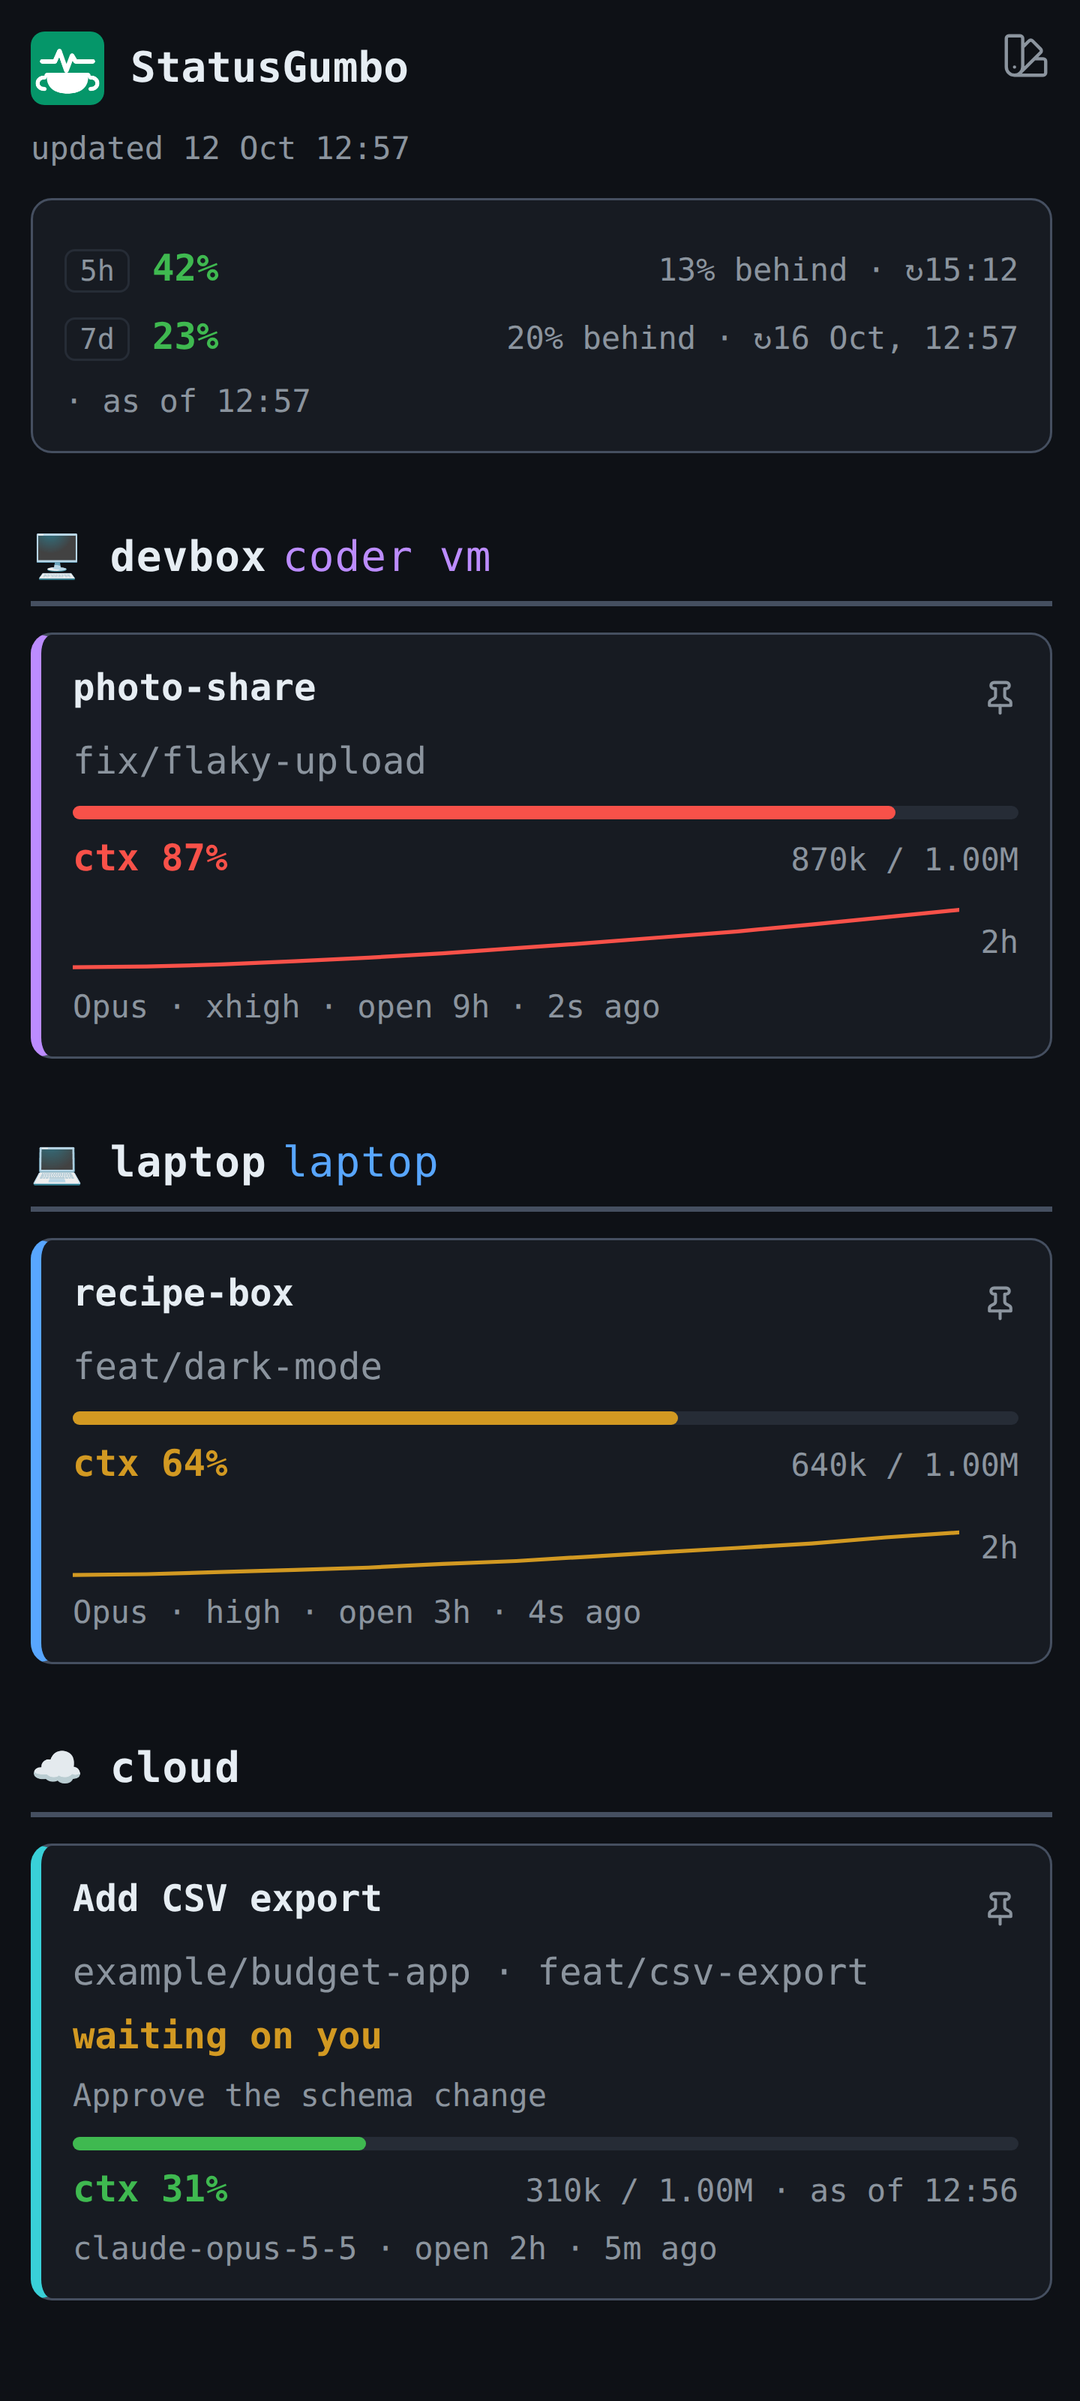
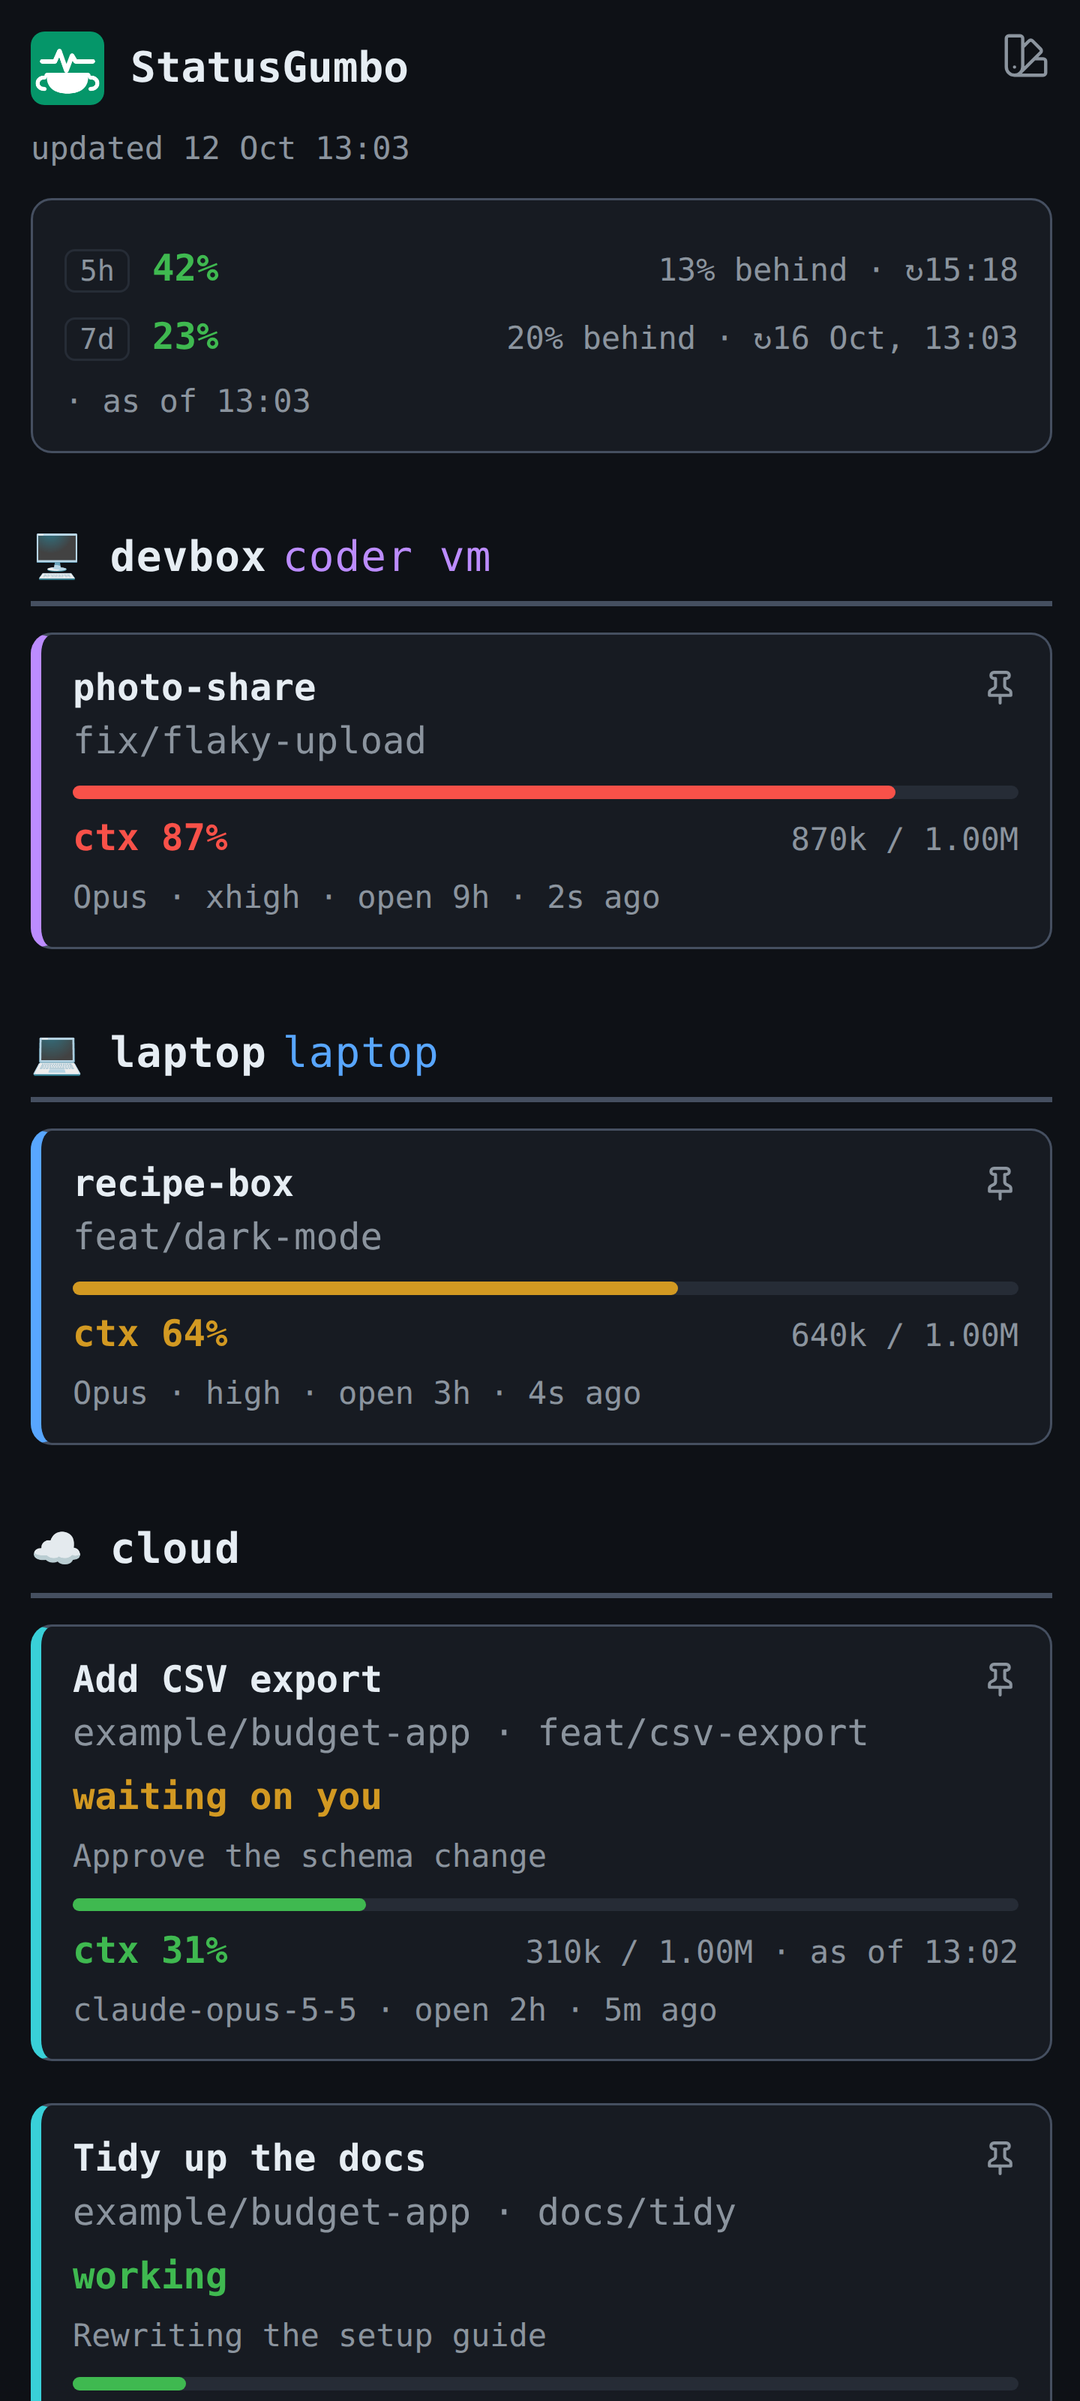
feat: the cards draw no context sparkline
At the user's request: it said little the percentage did not, and the
cards are a third shorter without it, so a phone shows more of them.
The svg height rule went with it (only the sparkline needed it), which
also stops the pin icon padding the title row. The collector still
serves history. The README screenshot is retaken.

diff --git a/collector/index.html b/collector/index.html
@@ -143,22 +143,6 @@
   .pct { font-weight: 700; }
   .green { color: var(--green); } .yellow { color: var(--yellow); } .red { color: var(--red); }
   .alert { border-color: var(--red); color: var(--red); }
-  /* height is not decoration here, it is the missing half of a dimension.
-     The sparkline is emitted as width="100%" over a `0 0 240 28` viewBox with
-     preserveAspectRatio="none" and no height, so the browser fell back to the
-     viewBox's 240:28 ratio and scaled the height with the *viewport width* —
-     28px at the 240px it was drawn for, ~45px on a phone, ~180px on a laptop,
-     where it opened a void inside the card taller than the card's own
-     content. Pinning it to the viewBox's own height makes the vertical scale
-     1:1 and the card the same height on every screen; the horizontal stretch
-     is what preserveAspectRatio="none" is there for and is left alone. */
-  svg { display: block; height: 28px; }
-  /* The line and how much time it covers, on one row. min-width:0 is what
-     lets the svg actually shrink: a flex item's floor is its content size,
-     not zero, so without it the caption would be pushed off the card on a
-     narrow screen rather than the line giving up the width. */
-  .spark { display: flex; align-items: center; gap: 8px; margin-top: 6px; }
-  .spark > svg { flex: 1; min-width: 0; }
   .empty { color: var(--dim); text-align: center; padding: 24px 0; }
   /* A card that opens on claude.ai is a link, and must still look like a
      card rather than like link text. */
@@ -353,9 +337,9 @@ function toneColor(pct) {
 }
 
 // A length of time with no opinion about what it measures. Shared by `age`,
-// which is a time since, and by the sparkline's caption, which is a time
-// across — the same formatting problem, and formatting them differently
-// would be a difference the reader has to account for and cannot.
+// which is a time since, and by `opened`, which is a time across — the same
+// formatting problem, and formatting them differently would be a difference
+// the reader has to account for and cannot.
 function duration(secs) {
   if (num(secs) === null) return '';
   secs = Math.max(0, Math.round(secs));
@@ -439,80 +423,6 @@ function paceText(pace) {
   return 'on pace';
 }
 
-// The x-axis is the sample index, and the line is stretched to the card's
-// full width whatever the count — so two samples twenty seconds apart draw
-// exactly the same edge-to-edge line as a full thirty-minute ring. Nothing
-// in the picture distinguishes them, which is why one is withheld and the
-// other is captioned rather than left to be guessed at.
-//
-// Below this the line is not thin evidence, it is a shape with no trend in
-// it: at one sample per HISTORY_MIN_INTERVAL_SECS, two minutes is a dozen
-// readings, and fewer than that says only what the percentage above it
-// already says. The same judgement the budget card makes about a stale
-// figure — withhold rather than present something that cannot support the
-// reading it invites.
-const SPARKLINE_MIN_SPAN_SECS = 120;
-
-// The samples a line may be drawn from, or null if it may not be drawn.
-//
-// store.py declines to append a sample whose ctx_pct is null, so that half of
-// this filter is partly belt-and-braces. It is here because the coupling is
-// invisible from this file: an unguarded null or NaN plots at y = h, drawing
-// a confident 0% the collector never claimed. Number.isFinite rather than a
-// typeof test, because typeof NaN is 'number'. `t` is checked on the same
-// grounds — it is now arithmetic'd for the span, and a non-numeric one would
-// caption the line with a length that is not a length.
-function plottable(history) {
-  const samples = (history || []).filter(
-    sample => sample
-      && Number.isFinite(sample.ctx_pct)
-      && Number.isFinite(sample.t));
-  if (samples.length < 2) return null;
-  const span = samples[samples.length - 1].t - samples[0].t;
-  // `>=` written on the true branch: a NaN span fails every comparison, so
-  // asking `span < MIN` would have let it through to be captioned "NaNm".
-  if (!(span >= SPARKLINE_MIN_SPAN_SECS)) return null;
-
-  // A window in which the reading never changed is a horizontal line, and a
-  // horizontal line drawn edge to edge in the tone colour reads as a trend
-  // when it is the absence of one — it says exactly what the percentage
-  // above it already said, in a form that looks like it says more. Observed:
-  // two sessions holding 10% and 14% without moving for three quarters of an
-  // hour, both drawing a confident full-width stroke.
-  //
-  // So the line's presence is itself the signal. It appears when context is
-  // moving, which is the only time its shape carries anything the number
-  // does not. min/max by loop rather than Math.min(...values): the ring holds
-  // HISTORY_SLOTS samples and spreading an array of that size into arguments
-  // is a habit that breaks quietly once the ring is grown.
-  let lo = samples[0].ctx_pct, hi = lo;
-  for (const sample of samples) {
-    if (sample.ctx_pct < lo) lo = sample.ctx_pct;
-    if (sample.ctx_pct > hi) hi = sample.ctx_pct;
-  }
-  if (lo === hi) return null;
-
-  return { samples: samples, span: span };
-}
-
-function sparkline(plot) {
-  if (!plot) return '';
-  const samples = plot.samples;
-  const w = 240, h = 28;
-  const points = samples.map((sample, i) => {
-    const x = (i / (samples.length - 1)) * w;
-    const y = h - (Math.max(0, Math.min(100, sample.ctx_pct)) / 100) * h;
-    return x.toFixed(1) + ',' + y.toFixed(1);
-  }).join(' ');
-  const last = samples[samples.length - 1].ctx_pct;
-  // The caption rides beside the line rather than beneath it, so saying how
-  // much time the line covers costs the card no height at all.
-  return '<div class="spark">'
-       + '<svg width="100%" viewBox="0 0 ' + w + ' ' + h + '" preserveAspectRatio="none">'
-       + '<polyline fill="none" stroke="' + toneColor(last) + '" stroke-width="1.5" '
-       + 'vector-effect="non-scaling-stroke" points="' + points + '"/></svg>'
-       + '<span class="meta">' + duration(plot.span) + '</span></div>';
-}
 
 function renderBudget(rateLimits, staleAsOf) {
   if (!rateLimits) {
@@ -770,7 +680,6 @@ function renderSession(s, place) {
     + '<div class="bar"><div style="width:' + width + '%;background:' + toneColor(pct) + '"></div></div>'
     + '<div class="row"><span class="pct ' + tone(pct) + '">' + pctText + '</span>'
     + '<span class="meta">' + tokens(s.ctx_used_tokens) + size + '</span></div>'
-    + sparkline(plottable(s.history))
     // The API still carries cost_usd; this line deliberately does not spend
     // it. On a Max plan no session is billed, so the figure was noise that
     // read as a bill at a glance — the one impression this page must not
@@ -980,7 +889,7 @@ function themeMenu() {
 }
 
 // Applied on selection, so there is never a staged choice to confirm or
-// lose. The bars and sparklines take their colour from the palette at render
+// lose. The bars take their colour from the palette at render
 // time, so the cards are drawn again with it.
 function chooseTheme(choice) {
   themeChoice = choice;

diff --git a/tests/test_index_html.py b/tests/test_index_html.py
@@ -63,13 +63,13 @@ class TestFunctionSourceHelper(unittest.TestCase):
             function_source("noSuchFunction")
 
     def test_comments_are_stripped_so_no_assertion_matches_prose(self):
-        # plottable's comments name `typeof` precisely to explain why the
+        # renderSession's comments name cost_usd precisely to explain why the
         # code does not use it. Without stripping, that prose would defeat
         # the assertion that the code is free of it.
-        body = function_source("plottable")
+        body = function_source("renderSession")
         self.assertNotIn("//", body)
-        self.assertIn("Number.isFinite", body)
-        self.assertNotIn("typeof", body)
+        self.assertIn("esc(s.model)", body)
+        self.assertNotIn("cost_usd", body)
 
     def test_code_survives_the_stripping(self):
         self.assertIn("getPropertyValue", function_source("toneColor"))
@@ -183,9 +183,6 @@ class TestCardsReadAsSeparateBoxes(unittest.TestCase):
                 r"\.(?:meta|bar|row) \{[^}]*?margin[^:]*: ([\d ]+?)px", SOURCE
             )
         ]
-        internal += [
-            int(m) for m in re.findall(r"\.spark \{[^}]*?margin-top: (\d+)px", SOURCE)
-        ]
         self.assertTrue(internal, "found no internal gaps to compare against")
         self.assertGreaterEqual(gutter, 2 * max(internal))
 
@@ -213,22 +210,6 @@ class TestCardsReadAsSeparateBoxes(unittest.TestCase):
         # whoever reintroduces a state field.
         self.assertNotIn(".card.stale", SOURCE)
         self.assertNotIn("stale", function_source("renderSession"))
-
-    def test_the_sparkline_height_does_not_depend_on_the_viewport(self):
-        # The svg is emitted width="100%" with preserveAspectRatio="none" and
-        # no height, so without a CSS height the browser scaled the height
-        # from the viewBox ratio and the *viewport width*: 28px at the 240px
-        # it was drawn for, ~45px on a phone, ~180px on a laptop, where it
-        # opened a void inside the card taller than the card's own content.
-        #
-        # Equal to the viewBox height, not merely present: that is what makes
-        # the vertical scale 1:1, so a 10% reading sits at a tenth of the
-        # line's height rather than at some ratio of the window.
-        view_box_height = int(
-            re.search(r"const w = \d+, h = (\d+);", function_source("sparkline")).group(1)
-        )
-        css_height = int(re.search(r"svg \{[^}]*?height: (\d+)px", SOURCE).group(1))
-        self.assertEqual(css_height, view_box_height)
 
     def test_hosts_are_separated_more_than_the_sessions_within_one(self):
         gutter = int(
@@ -330,14 +311,6 @@ class TestTheCostIsNotDisplayed(unittest.TestCase):
 class TestNoConfidentZeroes(unittest.TestCase):
     """The page's core rule: `—` beats a figure it cannot stand behind."""
 
-    def test_sparkline_refuses_a_null_sample(self):
-        # Unreachable today only because store.py declines to append a
-        # sample with a null ctx_pct. An unguarded null plots as a
-        # confident 0%, and neither side can see that coupling.
-        body = function_source("plottable")
-        self.assertIn("ctx_pct", body)
-        self.assertIn("Number.isFinite", body)
-
 
 class TestNonNumbersNeverRenderAsFigures(unittest.TestCase):
     """The residual from finding 7, ruled in scope by the invariant.
@@ -387,88 +360,6 @@ class TestNonNumbersNeverRenderAsFigures(unittest.TestCase):
         # new Date(NaN).toLocaleTimeString() is "Invalid Date".
         self.assertIn("num(", function_source("clock"))
 
-    def test_sparkline_rejects_nan_not_merely_non_numbers(self):
-        # typeof NaN === 'number', so a typeof test would let NaN through
-        # and plot it at y = h — a confident 0% nobody reported. The guard now
-        # lives in plottable, which is the only way samples reach sparkline.
-        body = function_source("plottable")
-        self.assertIn("Number.isFinite", body)
-        self.assertNotIn("typeof", body)
-
-    def test_sparkline_draws_only_what_plottable_admits(self):
-        # The guard is only worth anything if it cannot be bypassed: sparkline
-        # must take the vetted set, never a raw history array.
-        self.assertIn("sparkline(plottable(", function_source("renderSession"))
-        self.assertNotIn("history", function_source("sparkline"))
-
-
-class TestTheSparklineSaysWhatItCovers(unittest.TestCase):
-    """The x-axis is the sample index and the line is stretched to the card's
-    full width whatever the count, so two samples twenty seconds apart drew
-    exactly the same edge-to-edge line as a full thirty-minute ring. The
-    picture could not distinguish them and neither could the reader.
-
-    Autoscaling the y-axis was the other candidate and was rejected: sessions
-    here sit at 5-30% of a 1M window, so fitting the line to its own range
-    would render a 10%-to-11% drift as a dramatic climb. Inventing alarm from
-    noise is the failure this page is built to avoid. The scale stays 0-100
-    and comparable between cards; what changed is that the line now says how
-    much time it covers, and declines to appear before it covers enough.
-    """
-
-    def test_a_line_too_short_to_show_a_trend_is_withheld(self):
-        body = function_source("plottable")
-        self.assertIn("SPARKLINE_MIN_SPAN_SECS", body)
-        self.assertIn("return null", body)
-
-    def test_the_threshold_is_several_samples_not_merely_two(self):
-        # At one sample per HISTORY_MIN_INTERVAL_SECS a threshold below about
-        # a minute would admit a handful of readings — the shape this guard
-        # exists to suppress.
-        threshold = int(
-            re.search(r"const SPARKLINE_MIN_SPAN_SECS = (\d+);", SOURCE).group(1)
-        )
-        self.assertGreaterEqual(threshold, 60)
-
-    def test_a_nan_span_is_rejected_by_the_true_branch(self):
-        # Every comparison against NaN is false, so `span < MIN` would have
-        # returned false for a NaN span and let it through to be captioned
-        # "NaNm". The test is written on the passing condition instead.
-        body = function_source("plottable")
-        self.assertIn("!(span >= SPARKLINE_MIN_SPAN_SECS)", body)
-
-    def test_a_window_in_which_nothing_moved_draws_no_line(self):
-        # A constant plots as a horizontal stroke drawn edge to edge in the
-        # tone colour, which reads as a trend when it is the absence of one --
-        # it restates the percentage above it in a form that looks like it
-        # says more. Observed: two sessions holding 10% and 14% without
-        # moving for three quarters of an hour, both drawing a confident
-        # full-width line. The line's presence is now itself the signal.
-        body = function_source("plottable")
-        self.assertIn("lo === hi", body)
-
-    def test_the_range_is_not_taken_by_spreading_the_ring(self):
-        # Math.min(...samples) spreads HISTORY_SLOTS arguments onto the stack
-        # and breaks quietly once the ring is grown.
-        body = function_source("plottable")
-        self.assertNotIn("Math.min(...", body)
-        self.assertNotIn("Math.max(...", body)
-
-    def test_the_line_is_captioned_with_the_time_it_covers(self):
-        self.assertIn("duration(plot.span)", function_source("sparkline"))
-
-    def test_the_caption_costs_the_card_no_height(self):
-        # Beside the line, not beneath it. A stacked caption would have given
-        # back the height just reclaimed by pinning the svg.
-        rule = re.search(r"\.spark \{[^}]*\}", SOURCE).group(0)
-        self.assertIn("display: flex", rule)
-        self.assertIn("align-items: center", rule)
-
-    def test_the_line_yields_width_to_the_caption_not_the_reverse(self):
-        # A flex item's floor is its content size, not zero, so without
-        # min-width:0 the caption is pushed off the card on a narrow screen.
-        rule = re.search(r"\.spark > svg \{[^}]*\}", SOURCE).group(0)
-        self.assertIn("min-width: 0", rule)
 
 
 class TestToneColorHasNoDeadTernary(unittest.TestCase):
@@ -748,7 +639,7 @@ class TestThemes(unittest.TestCase):
         self.assertIn("try", body)
 
     def test_choosing_redraws_the_cards(self):
-        # Bars and sparklines take toneColor() at render time.
+        # The bars take toneColor() at render time.
         body = function_source("chooseTheme")
         self.assertIn("applyTheme(choice)", body)
         self.assertIn("redraw()", body)
@@ -782,3 +673,12 @@ class TestEachCardSaysHowLongItHasBeenOpen(unittest.TestCase):
 
     def test_the_open_time_is_guarded(self):
         self.assertIn("duration(secs)", function_source("opened"))
+
+
+class TestNoSparkline(unittest.TestCase):
+    """2026-10-12: the user found the context sparkline not useful, and the
+    cards fit more to a screen without it."""
+
+    def test_the_card_draws_no_line(self):
+        self.assertNotIn("sparkline", function_source("renderSession"))
+        self.assertNotIn("<polyline", SOURCE)

diff --git a/ARCHITECTURE.md b/ARCHITECTURE.md
@@ -92,9 +92,9 @@ All times are measured from a record's last tick, against an injected clock in t
 | `DROP_SESSION_SECS` | 15 min | The record, its `first_seen` and its history are kept this long, but never shown past `ACTIVE_SECS`. |
 | `DROP_HOST_SECS` | 1 h | A host heading stays this long after its last tick, except the collector's own host. |
 | `RATE_LIMITS_MAX_AGE_SECS` | 15 min | The usage windows are withheld after this. |
-| `HISTORY_SLOTS` / `HISTORY_MIN_INTERVAL_SECS` | 180 / 10 s | The sparkline ring covers at least 30 minutes, and more when ticks are slower. The page captions each line with the span it actually covers. |
+| `HISTORY_SLOTS` / `HISTORY_MIN_INTERVAL_SECS` | 180 / 10 s | Each session's context history covers at least 30 minutes, and more when ticks are slower. It is still served as `history`, but since 2026-10-12 the page draws no sparkline from it. |
 
-Visibility and retention are separate on purpose. Setting `DROP_SESSION_SECS` to `ACTIVE_SECS` would draw the same page, but a laptop asleep for fifty seconds would lose its sparkline and come back as a new session. A quiet session is not shown greyed out: a card that outlives its session by minutes answers a question nobody asked. There is no `state` field, since only live sessions are served. Adding a "stale" tier back would also reintroduce the bug where "not reporting" sat above a greyed card from the same host.
+Visibility and retention are separate on purpose. Setting `DROP_SESSION_SECS` to `ACTIVE_SECS` would draw the same page, but a laptop asleep for fifty seconds would lose its history and come back as a new session. A quiet session is not shown greyed out: a card that outlives its session by minutes answers a question nobody asked. There is no `state` field, since only live sessions are served. Adding a "stale" tier back would also reintroduce the bug where "not reporting" sat above a greyed card from the same host.
 
 Distinguishing a clean exit from silence was rejected. A `Stop` hook tombstone can't fire for a killed terminal, so the timeout would still be needed, and it would save 45 seconds.
 
